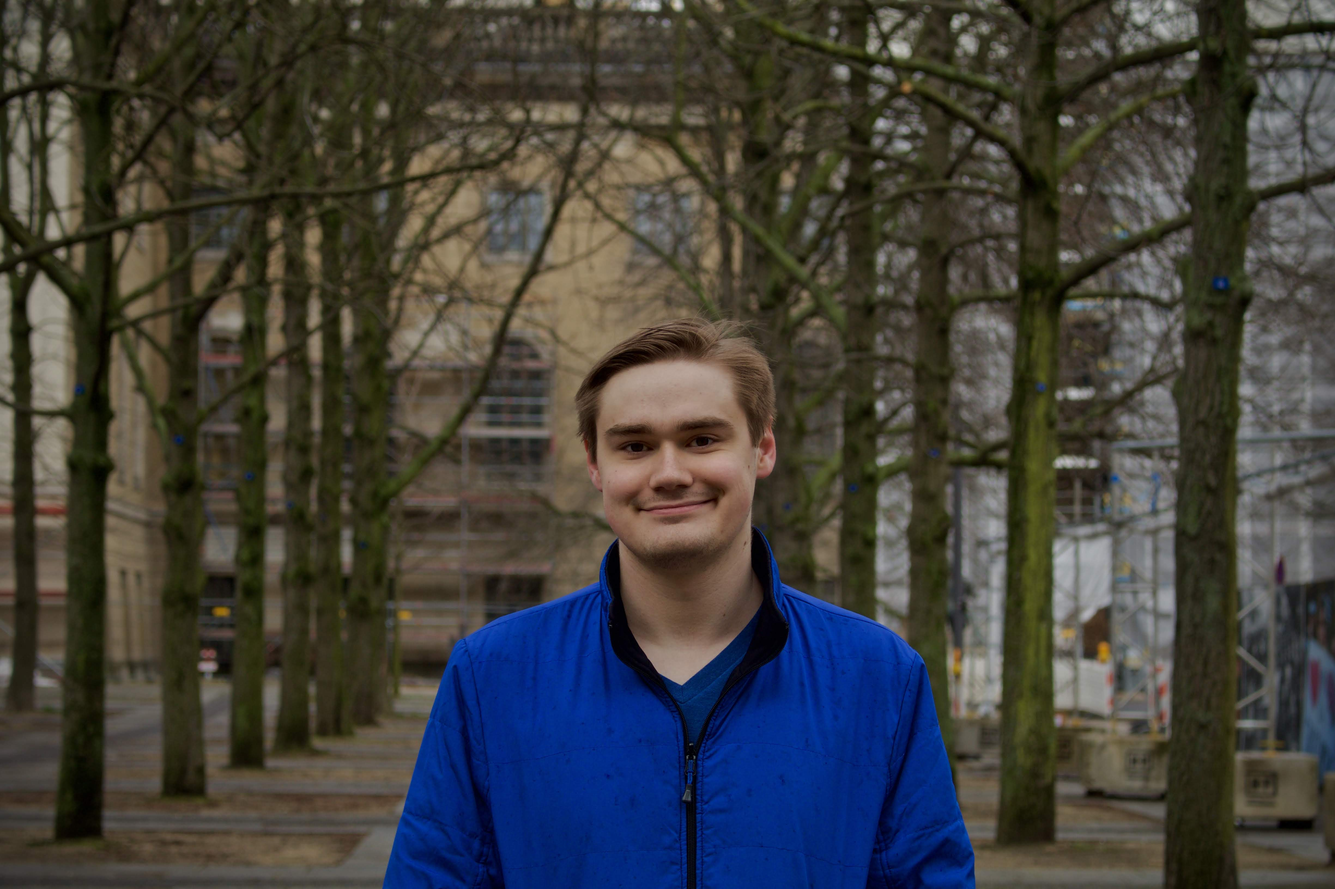
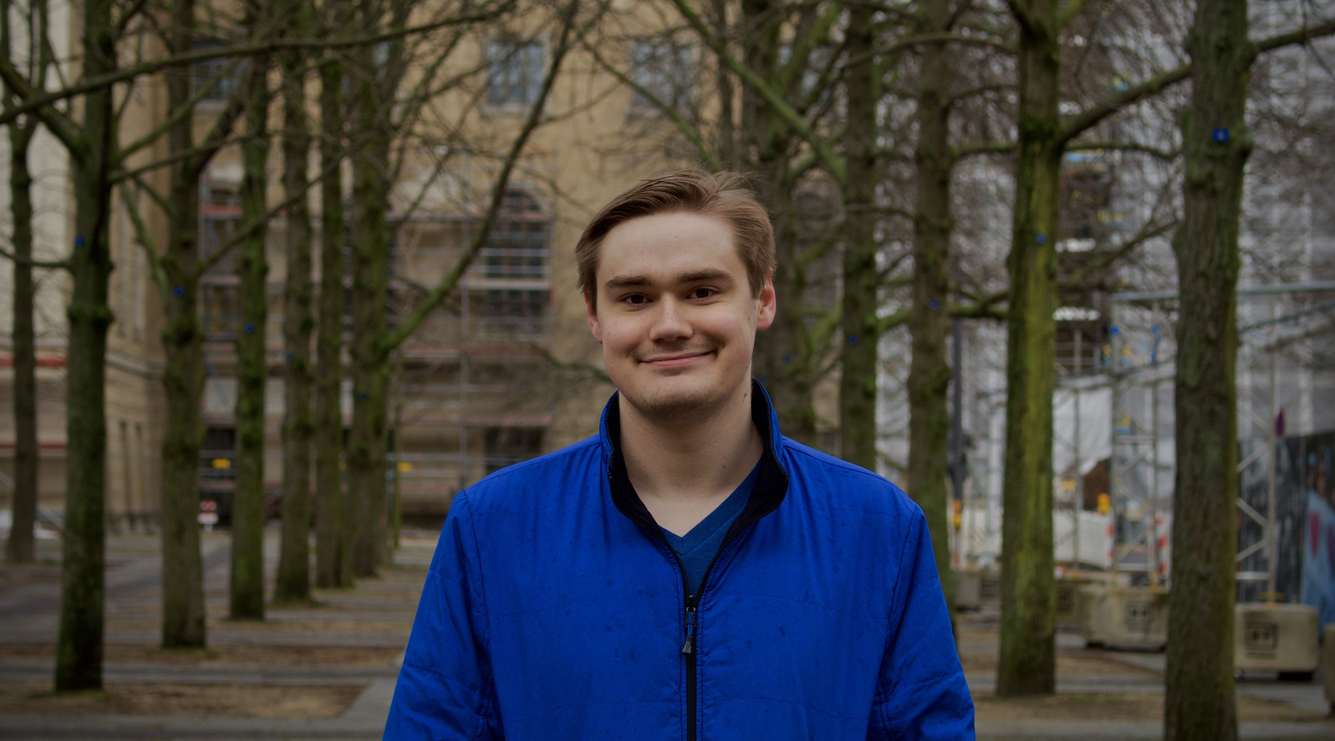
Make home page responsive, WIP responsive drawer, WIP experience

diff --git a/backend/client/src/Menu/DrawerContent.jsx b/backend/client/src/Menu/DrawerContent.jsx
@@ -2,6 +2,8 @@ import React from "react";
 import Grid2 from "@mui/material/Unstable_Grid2";
 import IconButton from "@mui/material/IconButton";
 import ArrowBackIosNewIcon from "@mui/icons-material/ArrowBackIosNew";
+import GitHubIcon from "@mui/icons-material/GitHub";
+import LinkedInIcon from "@mui/icons-material/LinkedIn";
 import DrawerItem from "./DrawerItem";
 import { Color1 } from "../Core/Constants/ColorConstants";
 
@@ -10,27 +12,49 @@ export default function DrawerContent(props) {
   const [selectedItem, setSelectedItem] = React.useState("Home");
 
   return (
-    <Grid2 container sx={{ padding: "8px" }}>
-      <Grid2 xs={12} sx={{ display: { xs: "block", sm: "none" } }}>
-        <IconButton onClick={closeModal}>
-          <ArrowBackIosNewIcon fontSize="large" sx={{ color: Color1 }} />
-        </IconButton>
+    <div style={{ height: "100vh" }}>
+      <Grid2
+        container
+        sx={{
+          padding: "8px",
+          height: "calc(100vh - 60px)",
+          alignContent: "flex-start"
+        }}
+      >
+        <Grid2 xs={12} sx={{ display: { xs: "block", sm: "none" } }}>
+          <IconButton onClick={closeModal}>
+            <ArrowBackIosNewIcon fontSize="large" sx={{ color: Color1 }} />
+          </IconButton>
+        </Grid2>
+        <DrawerItem
+          ItemText="Home"
+          SelectedItem={selectedItem}
+          SetSelectedItem={setSelectedItem}
+        />
+        <DrawerItem
+          ItemText="About Me"
+          SelectedItem={selectedItem}
+          SetSelectedItem={setSelectedItem}
+        />
+        <DrawerItem
+          ItemText="Experience"
+          SelectedItem={selectedItem}
+          SetSelectedItem={setSelectedItem}
+        />
       </Grid2>
-      <DrawerItem
-        ItemText="Home"
-        SelectedItem={selectedItem}
-        SetSelectedItem={setSelectedItem}
-      />
-      <DrawerItem
-        ItemText="About Me"
-        SelectedItem={selectedItem}
-        SetSelectedItem={setSelectedItem}
-      />
-      {/* <DrawerItem
-        ItemText="Experience"
-        SelectedItem={selectedItem}
-        SetSelectedItem={setSelectedItem}
-      /> */}
-    </Grid2>
+      <div style={{ display: "flex", justifyContent: "space-evenly" }}>
+        <IconButton
+          onClick={() => window.open("https://github.com/AdamKogut", "_blank")}
+        >
+          <GitHubIcon fontSize="large" sx={{ color: Color1 }} />
+        </IconButton>
+        <IconButton
+          onClick={() =>
+            window.open("https://www.linkedin.com/in/adamkogut/", "_blank")}
+        >
+          <LinkedInIcon fontSize="large" sx={{ color: Color1 }} />
+        </IconButton>
+      </div>
+    </div>
   );
 }

diff --git a/backend/client/src/Experience/ExperienceInfo.jsx b/backend/client/src/Experience/ExperienceInfo.jsx
@@ -1,0 +1,23 @@
+import RndImage from "../Images/RndGroupLogo.png";
+
+export const RndGroupProps = {
+  ImageSrc: RndImage,
+  ImageLink: "https://rndgroup.com/",
+  Timeline: "May 2019 - October 2019, June 2020 - Current",
+  Title: "The RND Group",
+  InfoText:
+    "I joined The RND Group as an inexperienced college student otherwise known as an intern the summer of 2019. " +
+    "There I learned how to problem solve and work as a team when I was paired up with 2 other interns to upgrade " +
+    "a tool that the client uses to follow the code quality guidelines and redesign the UI for it.\n" +
+    "The RND Group then extended an offer to join them the following June that I happily took. Because of COVID-19 " +
+    "I started off as a tester for one of the clients, it was a difficult assignment but I learned a lot about " +
+    "the testing process and what goes into verification and validation of a medical device's software. I was on " +
+    "that assignment for a couple of months before I moved to be a developer on a larger team of 8. \n" +
+    "On that team I received a lot of help and guidance until I became comfortable and began working on individual features such as " +
+    "an integrated video player to show help videos for the instrument. Since then I have worked on 7 additional client " +
+    "projects including ones where I was the solo or main developer on the project. The clients I have worked with have " +
+    "had various stacks including React/ASP.NET/SQL and WinForms without a database. This variation has provided me " +
+    "plenty of opportunities to learn and grow my craft and from this I have aided in critical decisions regarding " +
+    "the system architecture of multiple projects and the chance to be an interviewer for the intern program " +
+    "along with software engineer candidates."
+};

diff --git a/backend/client/src/Home/HomeMain.jsx b/backend/client/src/Home/HomeMain.jsx
@@ -1,50 +1,14 @@
 import React from "react";
 import Grid2 from "@mui/material/Unstable_Grid2";
-import { Color1 } from "../Core/Constants/ColorConstants";
 import ProfilePic from "../Images/PersonalPicture.jpeg";
+import "./HomeMain.css";
 
 export default function HomeMain() {
   return (
     <Grid2 xs={12} style={{ position: "relative", height: "100vh" }} id="Home">
-      <h1
-        style={{
-          position: "absolute",
-          top: window.innerWidth > 600 ? "5px" : "70px",
-          right: "5px",
-          zIndex: "2",
-          WebkitTextStroke: "1px black",
-          WebkitTextFillColor: Color1,
-          color: Color1,
-          fontSize: "4em"
-        }}
-      >
-        Adam Kogut
-      </h1>
-      <h3
-        style={{
-          position: "absolute",
-          top: window.innerWidth > 600 ? "80px" : "150px",
-          right: "5px",
-          zIndex: "2",
-          WebkitTextStroke: "1px black",
-          WebkitTextFillColor: Color1,
-          color: Color1,
-          fontSize: "2em"
-        }}
-      >
-        Software Engineer
-      </h3>
-      <img
-        src={ProfilePic}
-        alt="Portrait of Adam Kogut"
-        style={{
-          position: "absolute",
-          left: "50%",
-          transform: "translate(-50%,0%)",
-          zIndex: "1",
-          height: "100vh"
-        }}
-      />
+      <h1 id="name">Adam Kogut</h1>
+      <h3 id="occupation">Software Engineer</h3>
+      <img src={ProfilePic} alt="Portrait of Adam Kogut" id="profile-picture" />
     </Grid2>
   );
 }

diff --git a/backend/client/src/Experience/ExperienceItem.jsx b/backend/client/src/Experience/ExperienceItem.jsx
@@ -1,0 +1,54 @@
+import React from "react";
+import Grid2 from "@mui/material/Unstable_Grid2";
+
+export default function ExperienceItem(props) {
+  const { Title, InfoText, ImageSrc, Timeline, ImageLink } = props;
+  const ref = React.useRef(null);
+  const [boxWidth, setBoxWidth] = React.useState(0);
+
+  function RerenderBox() {
+    setBoxWidth(ref.current.offsetWidth - 5);
+  }
+
+  React.useEffect(() => {
+    RerenderBox();
+    window.addEventListener("resize", RerenderBox);
+    return () => window.removeEventListener("resize", RerenderBox);
+  }, []);
+
+  const paragraphList = [];
+  for (var pItem in InfoText.split("\n")) {
+    paragraphList.push(
+      <p style={{ padding: "0px 15px", fontSize: ".9em" }} key={pItem}>
+        {InfoText.split("\n")[pItem]}
+      </p>
+    );
+  }
+
+  return (
+    <React.Fragment>
+      <Grid2 xs={12}>
+        <h5 style={{ padding: "0px 15px" }}>
+          {Title}
+        </h5>
+      </Grid2>
+      <Grid2 xs={12}>
+        <h6 style={{ padding: "0px 15px" }}>
+          {Timeline}
+        </h6>
+      </Grid2>
+      <Grid2 xs={12} md={8}>
+        {paragraphList}
+      </Grid2>
+      <Grid2 xs={12} md={3} ref={ref}>
+        <a target="_blank" href={ImageLink}>
+          <img
+            src={ImageSrc}
+            style={{ maxHeight: "150px", maxWidth: boxWidth }}
+          />
+        </a>
+      </Grid2>
+      <Grid2 xs={0} md={1} />
+    </React.Fragment>
+  );
+}

diff --git a/backend/client/src/Home/HomeMain.css b/backend/client/src/Home/HomeMain.css
@@ -1,0 +1,55 @@
+#name {
+  position: absolute;
+  top: 5px;
+  right: 5px;
+  z-index: 2;
+  -webkit-text-stroke: 1px black;
+  -webkit-text-fill-color: var(--color1);
+  color: var(--color1);
+  font-size: 4em;
+}
+
+#occupation {
+  position: absolute;
+  top: 80px;
+  right: 5px;
+  z-index: 2;
+  -webkit-text-stroke: 1px black;
+  -webkit-text-fill-color: var(--color1);
+  color: var(--color1);
+  font-size: 2em;
+}
+
+#profile-picture {
+  position: absolute;
+  left: 50%;
+  transform: translate(-50%, 0%);
+  z-index: 1;
+  height: 100vh;
+}
+
+@media screen and (max-width: 639px) {
+  #name {
+    font-size: 3.6em;
+  }
+}
+
+@media screen and (max-width: 600px) {
+  #name {
+    top: 70px;
+  }
+
+  #occupation {
+    top: 150px;
+  }
+}
+
+@media screen and (max-width: 369px) {
+  #name {
+    font-size: 14vw;
+  }
+  #occupation {
+    top: calc(70px + 18vw);
+    font-size: 7vw;
+  }
+}

diff --git a/backend/client/src/Experience/ExperienceMain.jsx b/backend/client/src/Experience/ExperienceMain.jsx
@@ -1,0 +1,32 @@
+import React from "react";
+import Grid2 from "@mui/material/Unstable_Grid2";
+import { Color2 } from "../Core/Constants/ColorConstants";
+import ExperienceItem from "./ExperienceItem";
+import { RndGroupProps } from "./ExperienceInfo";
+
+export default function ExperienceMain() {
+  const windowHeight = window.innerHeight;
+  const textHeight = 400;
+  const biggerHeight = windowHeight > textHeight ? windowHeight : textHeight;
+
+  return (
+    <Grid2
+      xs={12}
+      style={{
+        position: "relative",
+        height: `${biggerHeight}px`,
+        display: "flex",
+        alignContent: "baseline"
+      }}
+      id="Experience"
+      container
+    >
+      <Grid2 xs={12}>
+        <h3 style={{ padding: "30px 10px 10px 10px", color: Color2 }}>
+          Experience
+        </h3>
+      </Grid2>
+      <ExperienceItem {...RndGroupProps} />
+    </Grid2>
+  );
+}

diff --git a/backend/client/src/InfoArea.jsx b/backend/client/src/InfoArea.jsx
@@ -7,6 +7,7 @@ import { Color5, Color2 } from "./Core/Constants/ColorConstants";
 import { DrawerWidth } from "./Core/Constants/SizeConstants";
 import HomeMain from "./Home/HomeMain";
 import AboutMain from "./About/AboutMain";
+import ExperienceMain from "./Experience/ExperienceMain";
 
 export default function InfoArea(props) {
   const { isOpen, setIsOpen } = props;
@@ -45,6 +46,7 @@ export default function InfoArea(props) {
       <Grid2 container>
         <HomeMain />
         <AboutMain />
+        <ExperienceMain />
       </Grid2>
     </Box>
   );

diff --git a/backend/client/src/About/AboutMain.jsx b/backend/client/src/About/AboutMain.jsx
@@ -1,7 +1,6 @@
 import React from "react";
 import Grid2 from "@mui/material/Unstable_Grid2";
-import { Color1, Color2 } from "../Core/Constants/ColorConstants";
-import ProfilePic from "../Images/PersonalPicture.jpeg";
+import { Color2 } from "../Core/Constants/ColorConstants";
 
 export default function AboutMain() {
   const windowHeight = window.innerHeight;
